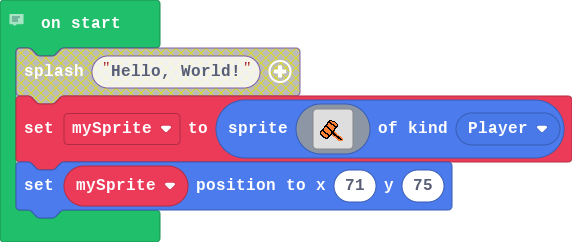
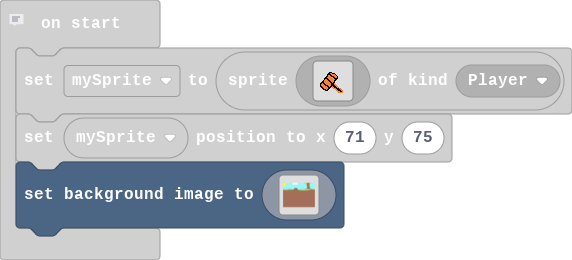
Update main.blocks, main.ts

diff --git a/main.ts b/main.ts
@@ -38,3 +38,125 @@ let mySprite = sprites.create(img`
     ................................
     `, SpriteKind.Player)
 mySprite.setPosition(71, 75)
+scene.setBackgroundImage(img`
[37 lines of base64/hex data omitted]
+    eeeeeeeeeeeeeeeeeeeeeeeeeeeeeeeeeeeeeeeeeeeeeeeeeeeeeeeeeeeeeeeeeeeeeeeeeeeeeeeeeeeeeeeeeeeeeeeeeeeeeeeeeeeeeeeeeeeeeeeeeeeeeeeeeeeeeeeeeeeeeeeeeeeeeeeeeeeeeeee
+    eeeeeeeeeeeeeeeeeeeeeeeeeeeeeeeeeeeeeeeeeeeeeeeeeeeeeeeeeeeeeeeeeeeeeeeeeeeeeeeeeeeeeeeeeeeeeeeeeeeeeeeeeeeeeeeeeeeeeeeeeeeeeeeeeeeeeeeeeeeeeeeeeeeeeeeeeeeeeeee
+    eeeeeeeeeeeeeeeeeeeeeeeeeeeeeeeeeeeeeeeeeeeeeeeeeeeeeeeeeeeeeeeeeeeeeeeeeeeeeeeeeeeeeeeeeeeeeeeeeeeeeeeeeeeeeeeeeeeeeeeeeeeeeeeeeeeeeeeeeeeeeeeeeeeeeeeeeeeeeeee
+    eeeeeeeeeeeeeeeeeeeeeeeeeeeeeeeeeeeeeeeeeeeeeeeeeeeeeeeeeeeeeeeeeeeeeeeeeeeeeeeeeeeeeeeeeeeeeeeeeeeeeeeeeeeeeeeeeeeeeeeeeeeeeeeeeeeeeeeeeeeeeeeeeeeeeeeeeeeeeeee
+    eeeeeeeeeeeeeeeeeeeeeeeeeeeeeeeeeeeeeeeeeeeeeeeeeeeeeeeeeeeeeeeeeeeeeeeeeeeeeeeeeeeeeeeeeeeeeeeeeeeeeeeeeeeeeeeeeeeeeeeeeeeeeeeeeeeeeeeeeeeeeeeeeeeeeeeeeeeeeeee
+    eeeeeeeeeeeeeeeeeeeeeeeeeeeeeeeeeeeeeeeeeeeeeeeeeeeeeeeeeeeeeeeeeeeeeeeeeeeeeeeeeeeeeeeeeeeeeeeeeeeeeeeeeeeeeeeeeeeeeeeeeeeeeeeeeeeeeeeeeeeeeeeeeeeeeeeeeeeeeeee
+    eeeeeeeeeeeeeeeeeeeeeeeeeeeeeeeeeeeeeeeeeeeeeeeeeeeeeeeeeeeeeeeeeeeeeeeeeeeeeeeeeeeeeeeeeeeeeeeeeeeeeeeeeeeeeeeeeeeeeeeeeeeeeeeeeeeeeeeeeeeeeeeeeeeeeeeeeeeeeeee
+    eeeeeeeeeeeeeeeeeeeeeeeeeeeeeeeeeeeeeeeeeeeeeeeeeeeeeeeeeeeeeeeeeeeeeeeeeeeeeeeeeeeeeeeeeeeeeeeeeeeeeeeeeeeeeeeeeeeeeeeeeeeeeeeeeeeeeeeeeeeeeeeeeeeeeeeeeeeeeeee
+    eeeeeeeeeeeeeeeeeeeeeeeeeeeeeeeeeeeeeeeeeeeeeeeeeeeeeeeeeeeeeeeeeeeeeeeeeeeeeeeeeeeeeeeeeeeeeeeeeeeeeeeeeeeeeeeeeeeeeeeeeeeeeeeeeeeeeeeeeeeeeeeeeeeeeeeeeeeeeeee
+    eeeeeeeeeeeeeeeeeeeeeeeeeeeeeeeeeeeeeeeeeeeeeeeeeeeeeeeeeeeeeeeeeeeeeeeeeeeeeeeeeeeeeeeeeeeeeeeeeeeeeeeeeeeeeeeeeeeeeeeeeeeeeeeeeeeeeeeeeeeeeeeeeeeeeeeeeeeeeeee
+    eeeeeeeeeeeeeeeeeeeeeeeeeeeeeeeeeeeeeeeeeeeeeeeeeeeeeeeeeeeeeeeeeeeeeeeeeeeeeeeeeeeeeeeeeeeeeeeeeeeeeeeeeeeeeeeeeeeeeeeeeeeeeeeeeeeeeeeeeeeeeeeeeeeeeeeeeeeeeeee
+    eeeeeeeeeeeeeeebeeeeeeeeeeeeeeeeeeeeeeeeeeeeeeeeeeeeeeeeeeeeeeeeeeeeeeeeeeeeeeeeeeeeeeeeeeeeeeeeeeeeeeeeeeeeeeeeeeeeeeeeeeeeeeeeeeeeeeeeeeeeeeeeeeeeeeeeeeeeeeee
+    eeeeeeeeeeeeeeeeeeeeeeeeeeeeeeeeeeeeeeeeeeeeeeeeeeeeeeeeeeeeeeeeeeeeeeeeeeeeeeeeeeeeeeeeeeeeeeeeeeeeebeeeeeeeeeeeeeeeeeeeeeeeeeeeeeeeeeeeeeeeeeeeeeeeeeeeeeeeeee
+    eeeeeeeeeeeeeeeeeeeeeeeeeeeeeeeeeeeeeeeeeeeeeeeeeeeeeeeeeeeeeeeeeeeeeeeeeeeeeeeeeeeeeeeeeeeeeeeeeeeeeeeeeeeeeeeeeeeeeeeeeeeeeeeeeeeeeeeeeeeeeeeeeeeeeeeeeeeeeeee
+    eeeeeeeeeeeeeeeeeeeeeeeeeeeeeeeeeeeeeeeeeeeeeeeeeeeeeeeeeeeeeeeeeeeeeeeeeeeeeeeeeeeeeeeeeeeeeeeeeeeeeeeeeeeeeeeeeeeeeeeeeeeeeeeeeeeeeeeeeeeeeeeeeeeeeeeeeeeeeeee
+    eeeeeeeeeeeeeeeeeeeeeeeeeeeeeeeeeeeeeeeeeeeeeeeeeeeeeeeeeeeeeeeeeeeeeeeeeeeeeeeeeeeeeeeeeeeeeeeeeeeeeeeeeeeeeeeeeeeeeeeeeeeeeeeeeeeeeeeeeeeeeeeeeeeeeeeeeeeeeeee
+    eeeeeeeeeeeeeeeeeeeeeeeeeeeeeeeeeeeeeeeeeeeeeeeeeeeeeeeeeeeeeeeeeeeeeeeeeeeeeeeeeeeeeeeeeeeeeeeeeeeeeeeeeeeeeeeeeeeeeeeeeeeeeeeeeeeeeeeeeeeeeeeeeeeeeeeeeeeeeeee
+    eeeeeeeeeeeeeeeeeeeeeeeeeeeeeeeeeeeeeeeeeeeeeeeeeeeeeeeeeeeeeeeeeeeeeeeeeeeeeeeeeeeeeeeeeeeeeeeeeeeeeeeeeeeeeeeeeeeeeeeeeeeeeeeeeeeeeeeeeeeeeeeeeeeeeeeeeeeeeeee
+    eeeeeeeeeeeeeeeeeeeeeeeeeeeeeeeeeeeeeeeeeeeeeeeeeeeeeeeeeeeeeeeeeeeeeeeeeeeeeeeeeeeeeeeeeeeeeeeeeeeeeeeeeeeeeeeeeeeeeeeeeeeeeeeeeeeeeeeeeeeeeeeeeeeeeeeeeeeeeeee
+    eeeeeeeeeeeeeeeeeeeeeeeeeeeeeeeeeeeeeeeeeeeeeeeeeeeeeeeeeeeeeeeeeeeeeeeeeeeeeeeeeeeeeeeeeeeeeeeeeeeeeeeeeeeeeeeeeeeeeeeeeeeeeeeeeeeeeeeeeeeeeeeeeeeeeeeeeeeeeeee
+    eeeeeeeeeeeeebeeeeeeeeeeeeeeeeeeeeeeeeeeeeeeeeeeeeeeeeeeeeeeeeeeeeeeeeeeeeeeeeeeeeeeeeeeeeeeeeeeeeeeeeeeeeeeeeeeeeeeeeeeeeeeeeeeeeeeeeeeeeeeeeeeeeeeeeeeeeeeeeee
+    eeeeeeeeeeeeeeeeeeeeeeeeeeeeeeeeeeeeeeeeeeeeeeeeeeeeeeeeeeeeeeeeeeeeeeeeeeeeeeeeeeeeeeeeeeeeeeeeeeeeeeeeeeeeeeeeeeeeeeeeeeeeeeeeeeeeeeeeeeeeeeeeeeeeeeeeeeeeeeee
+    eeeeeeeeeeeeeeeeeeeeeeeeeeeeeeeeeeeeeeeeeeeeeeeeeeeeeeeeeeeeeeeeeeeeeeeeeeeeeeeeeeeeeeeeeeeeeeeeeeeeeeeeeeeeeeeeeeeeeeeeeeeeeeeeeeeeeeeeeeeeeeeeeeeeeeeeeeeeeeee
+    eeeeeeeeeeeeeeeeeeeeeeeeeeeeeeeeeeeeeeeeeeeeeeeeeeeeeeeeeeeeeeeeeeeeeeeeeeeeeeeeeeeeeeeeeeeeeeeeeeeeeeeeeeeeeeeeeeeeeeeeeeeeeeeeeeeeeeeeeeeeeeeeeeeeeeeeeeeeeeee
+    eeeeeeeeeeeeeeeeeeeeeeeeeeeeeeeeeeeeeeeeeeeeeeeeeeeeeeeeeeeeeeeeeeeeeeeeeeeeeeeeeeeeeeeeeeeeeeeeeeeeeeeeeeeeeeeeeeeeeeeeeeeeeeeeeeeeeeeeeeeeeeeeeeeeeeeeeeeeeeee
+    eeeeeeeeeeeeeeeeeeeeeeeeeeeeeeeeeeeeeeeeeeeeeeeeeeeeeeeeeeeeebeeeeeeeeeeeeeeeeeeeeeeeeeeeeeeeeeeeeeeeeeeeeeeeeeeeeeeeeeeeeeeeeeeeeeeeeeeeeeeeeeeeeeeeeeeeeeeeeee
+    eeeeeeeeeeeeeeeeeeeeeeeeeeeeeeeeeeeeeeeeeeeeeeeeeeeeeeeeeeeeeeeeeeeeeeeeeeeeeeeeeeeeeeeeeeeeeeeeeeeeeeeeeeeeeeeeeeeeeeeeeeeeeeeeeeeebeeeeeeeeeeeeeeeeeeeeeeeeeee
+    eeeeeeeeeeeeeeeeeeeeeeeeeeeeeeeeeeeeeeeeeeeeeeeeeeeeeeeeeeeeeeeeeeeeeeeeeeeeeeeeeeeeeeeeeeeeeeeeeeeeeeeeeeeeeeeeeeeeeeeeeeeeeeeeeeeeeeeeeeeeeeeeeeeeeeeeeeeeeeee
+    eeeeeeeeeeeeeeeeeeeeeeeeeeeeeeeeeeeeeeeeeeeeeeeeeeeeeeeeeeeeeeeeeeeeeeeeeeeeeeeeeeeeeeeeeeeeebeeeeeeeeeeeeeeeeeeeeeeeeeeeeeeeeeeeeeeeeeeeeeeeeeeeeeeeeeeeeeeeeee
+    eeeeeeeeeeeeeeeeeeeeeeeeeeeeeeeeeeeeeeeeeeeeeeeeeeeeeeeeeeeeeeeeeeeeeeeeeeeeeeeeeeeeeeeeeeeeeeeeeeeeeeeeeeeeeeeeeeeeeeeeeeeeeeeeeeeeeeeeeeeeeeeeeeeeeeeeeeeeeeee
+    eeeeeeeeeeeeeeeeeeeeeeeeeeeeeeeeeeeeeeeeeeeeeeeeeeeeeeeeeeeeeeeeeeeeeeeeeeeeeeeeeeeeeeeeeeeeeeeeeeeeeeeeeeeeeeeeeeeeeeeeeeeeeeeeeeeeeeeeeeeeeeeeeeeeeeeeeeeeeeee
+    eeeeeeeeeeeeeeeeeeeeeeeeeeeeeeeeeeeeeeeeeeeeeeeeeeeeeeeeeeeeeeeeeeeeeeeeeeeeeeeeeeeeeeeeeeeeeeeeeeeeeeeeeeeeeeeeeeeeeeeeeeeeeeeeeeeeeeeeeeeeeeeeeeeeeeeeeeeeeeee
+    eeeeeeeeeeeeeeeeeeeeeeeeeeeeeeeeeeeeeeeeeeeeeeeeeeeeeeeeeeeeeeeeeeeeeeeeeeeeeeeeeeeeeeeeeeeeeeeeeeeeeeeeeeeeeeeeeeeeeeeeeeeeeeeeeeeeeeeeeeeeeeeeeeeeeeeeeeeeeeee
+    eeeeeeeeeeeeeeeeeeeeeeeeeeeeeeeeeeeeeeeeeeeeeeeeeeeeeeeeeeeeeeeeeeeeeeeeeeeeeeeeeeeeeeeeeeeeeeeeeeeeeeeeeeeeeeeeeeeeeeeeeeeeeeeeeeeeeeeeeeeeeeeeeeeeeeeeeeeeeeee
+    eeeeeeeeeeeeeeeeeeeeeeeeeeeeeeeeeeeeeeeeeeeeeeeeeeeeeeeeeeeeeeeeeeeeeeeeeeeeeeeeeeeeeeeeeeeeeeeeeeeeeeeeeeeeeeeeeeeeeeeeeeeeeeeeeeeeeeeeeeeeeeeeeeeeeeeeeeeeeeee
+    eeeeeeeeeeeeeeeeeeeeeeeeeeeeeeeeeeeeeeeeeeeeeeeeeeeeeeeeeeeeeeeeeeeeeeeeeeeeeeeeeeeeeeeeeeeeeeeeeeeeeeeeeeeeeeeeeeeeeeeeeeeeeeeeeeeeeeeeeeeeeeeeeeeeeeeeeeeeeeee
+    eeeeeeeeeeeeeeeeeeeeeeeeeeeeeeeeeeeeeeeeeeeeeeeeeeeeeeeeeeeeeeeeeeeeeeeeeeeeeeeeeeeeeeeeeeeeeeeeeeeeeeeeeeeeeeeeeeeeeeeeeeeeeeeeeeeeeeeeeeeeeeeeeeeeeeeeeeeeeeee
+    eeeeeeeeeeeeeeeeeeeeeeeeeeeeeeeeeeeeeeeeeeeeeeeeeeeeeeeeeeeeeeeeeeeeeeeeeeeeeeeeeeeeeeeeeeeeeeeeeeeeeeeeeeeeeeeeeeeeeeeeeeeeeeeeeeeeeeeeeeeeeeeeeeeeeeeeeeeeeeee
+    eeeeeeeeeeeeeeeeeeeeeeeeeeeeeeeeeeeeeeeeeeeeeeeeeeeeeeeeeeeeeeeeeeeeeeeeeeeeeeeeeeeeeeeeeeeeeeeeeeeeeeeeeeeeeeeeeeeebeeeeeeeeeeeeeeeeeeeeeeeeeeeeeeeeeeeeeeeeeee
+    eeeeeeeeeeeeeeeeeeeeeeeeeeeeeeeeeeeeeeeeeeeeeeeeeeeeeeeeeeeeeeeeeeeeeeeeeeeeeeeeeeeeeeeeeeeeeeeeeeeeeeeeeeeeeeeeeeeebeeeeeeeeeeeeeeeeeeeeeeeeeeeeeeeeeeeeeeeeeee
+    eeeeeeeeeeeeeeeeeeeeeeeebeeeeeeeeeeeeeeeeeeeeeeeeeeeeeeeeeeeeeeeeeeeeeeeeeeeeeeeeeeeeeeeeeeeeeeeeeeeeeeeeeeeeeeeeeeeeeeeeeeeeeeeeeeeeeeeeeeeeeeeeeeeeeeeeeeeeeee
+    eeeeeeeeeeeeeeeeeeeeeeeeeeeeeeeeeeeeeeeeeeeeeeeeeeeeeeeeeeeeeeeeeeeeeeeeeeeeeeeeeeeeeeeeeeeeeeeeeeeeeeeeeeeeeeeeeeeeeeeeeeeeeeeeeeeeeeeeeeeeeeeeeeeeeeeeeeeeeeee
+    eeeeeeeeeeeeeeeeeeeeeeeeeeeeeeeeeeeeeeeeeeeeeeeeeeeeeeeeeeeeeeeeeeeeeeeeeeeeeeeeeeeeeeeeeeeeeeeeeeeeeeeeeeeeeeeeeeeeeeeeeeeeeeeeeeeeeeeeeeeeeeeeeeeeeeeeeeeeeeee
+    eeeeeeeeeeebeeeeeeeeeeeeeeeeeeeeeeeeeeeeeeeeeeeeeeeeeeeeeeeeeeeeeeeeeeeeeeeeeeeeeeeeeeeeeeeeeeeeeeeeeeeeeeeeeeeeeeeeeeeeeeeeeeeeeeeeeeeeeeeeeeeeeeeeeeeeeeeeeeee
+    eeeeeeeeeeeeeeeeeeeeeeeeeeeeeeeeeeeeeeeeeeeeeeeeeeeeeeeeeeeeeeeeeeeeeeeeeeeeeeeeeeeeeeeeeeeeeeeeeeeeeeeeeeeeeeeeeeeeeeeeeeeeeeeeeeeeeeeeeeeeeeeeeeeeeeeeeeeeeeee
+    eeeeeeeeeeeeeeeeeeeeeeeeeeeeeeeeeeeeeeeeeeeeeeeeeeeeeeeeeeeeeeebeeeeeeeeeeeeeeeeeeeeeeeeeeeeeeeeeeeeeeeeeeeeeeeeeeeeeeeeeeeeeeeeeeeeeeeeeeeeeeeeeeeeeeeeeeeeeeee
+    eeeeeeeeeeeeeeeeeeeeeeeeeeeeeeeeeeeeeeeeeeeeeeeeeeeeeeeeeeeeeeeeeeeeeeeeeeeeeeeeeeeeeeeeeeeeeeeeeeeeeeeeeeeeeeeeeeeeeeeeeeeeeeeeeeeeeeeeeeeeeeeeeeeeeeeeeeeeeeee
+    eeeeeeeeeeeeeeeeeeeeeeeeeeeeeeeeeeeeeeeeeeeeeeeeeeeeeeeeeeeeeeeeeeeeeeeeeeeeeeeeeeeeeeeeeeeeeeeeeeeeeeeeeeeeeeeeeeeeeeeeeeeeeeeeeeeeeeeeeeeeeeeeeeeeeeeeeeeeeeee
+    eeeeeeeeeeeeeeeeeeeeeeeeeeeeeeeeeeeeeeeeeeeeeeeeeeeeeeeeeeeeeeeeeeeeeeeeeeeeeeeeeeeeeeeeeeeeeeeeeeeeeeeeeeeeeeeeeeeeeeeeeeeeeeeeeeeeeeeeeeeeeeeeeeeeeeeeeeeeeeee
+    eeeeeeeeeeeeeeeeeeeeeeeeeeeeeeeeeeeeeeeeeeeeeeeeeeeeeeeeeeeeeeeeeeeeeeeeeeeeeeeeeeeeeeeeeeeeeeeeeeeeeeeeeeeeeeeeeeeeeeeeeeeeeeeeeeeeeeeeeeeeeeeeeeeeeeeeeeeeeeee
+    eeeeeeeeeeeeeeeeeeeeeeeeeeeeeeeeeeeeeeeeeeeeeeeeeeeeeeeeeeeeeeeeeeeeeeeeeeeeeeeeeeeeeeeeeeeeeeeeeeeeeeeeeeeeeeeeeeeeeeeeeeeeeeeeeeeeeeeeeeeeeeeeeeeeeeeeeeeeeeee
+    eeeeeeeeeeeeeeeeeeeeeeeeeeeeeeeeeeeeeeeeeeeeeeeeeeeeeeeeeeeeeeeeeeeeeeeeeeeeeeeeeeeeeeeeeeeeeeeeeeeeeeeeeeeeeeeeeeeeeeeeeeeeeeeeeeeeeeeeeeeeeeeeeeeeeeeeeeeeeeee
+    eeeeeeeeeeeeeeeeeeeeeeeeeeeeeeeeeeeeeeeeeeeeeeeeeeeeeeeeeeeeeeeeeeeeeeeeeeeeeeeeeeeeeeeeeeeeeeeeeeeeeeeeeeeeebeeeeeeeeeeeeeeeeeeeeeeeeeeeeeeeeeeeeeeeeeeeeeeeeee
+    eeeeeeeeeeeeeeeeeeeeeeeeeeeeeeeeeeeeeeeeeeeeeeeeeeeeeeeeeeeeeeeeeeeeeeeeeeeeeeeeeeeeeeeeeeeeeeeeeeeeeeeeeeeeeeeeeeeeeeeeeeeeeeeeeeeeeeeeeeeeeeeeeeeeeeeeeeeeeeee
+    eeeeeeeeeeeeeeeeeeeeeeeeeeeeeeeeeeeeeeeeeeeeeeeeeeeeeeeeeeeeeeeeeeeeeeeeebeeeeeeeeeeeeeeeeeeeeeeeeeeeeeeeeeeeeeeeeeeeeeeeeeeeeeeeeeeeeeeeeeeeeeeeeeeeeeeeeeeeeee
+    eeeeeeeeeeeeeeeeeeeeeeeeeeeeeeeeeeeeeeeeeeeeeeeeeeeeeeeeeeeeeeeeeeeeeeeeeeeeeeeeeeeeeeeeeeeeeeeeeeeeeeeeeeeeeeeeeeeeeeeeeeeeeeeeeeeeeeeeeeeeeeeeeeeeeeeeeeeeeeee
+    eeeeeeeeeeeeeeeeeeeeeeeeeeeeeeeeeeeeeeeeeeeeeeeeeeeeeeeeeeeeeeeeeeeeeeeeeeeeeeeeeeeeeeeeeeeeeeeeeeeeeeeeeeeeeeeeeeeeeeeeeeeeeeeeeeeeeeeeeeeeeeeeeeeeeeeeeeeeeeee
+    eeeeeeeeeeeeeeeeeeeeeeeeeeeeeeeeeeeeeeeeeeeebeeeeeeeeeeeeeeeeeeeeeeeeeeeeeeeeeeeeeeeeeeeeeeeeeeeeeeeeeeeeeeeeeeeeeeeeeeeeeeeeeeeeeeeeeeeeeeeeeeeeeeeeeeeeeeeeeee
+    eeeeeeeeeeeeeeeeeeeeeeeeeeeeeeeeeeeeeeeeeeeeeeeeeeeeeeeeeeeeeeeeeeeeeeeeeeeeeeeeeeeeeeeeeeeeeeeeeeeeeeeeeeeeeeeeeeeeeeeeeeeeeeeeeeeeeeeeeeeeeeeeeeeeeeeeeeeeeeee
+    eeeeeeeeeeeeeeeeeeeeeeeeeeeeeeeeeeeeeeeeeeeeeeeeeeeeeeeeeeeeeeeeeeeeeeeeeeeeeeeeeeeeeeeeeeeeeeeeeeeeeeeeeeeeeeeeeeeeeeeeeeeeeeeeeeeeeeeeeeeeeeeeeeeeeeeeeeeeeeee
+    eeeeeeeeeeeeeeeeeeeeeeeeeeeeeeeeeeeeeeeeeeeeeeeeeeeeeeeeeeeeeeeeeeeeeeeeeeeeeeeeeeeeeeeeeeeeeeeeeeeeeeeeeeeeeeeeeeeeeeeeeeeeeeeeeeeeeeeeeeeeeeeeeeeeeeeeeeeeeeee
+    eeeeeeeeeeeeeeeeeeeeeeeeeeeeeeeeeeeeeeeeeeeeeeeeeeeeeeeeeeeeeeeeeeeeeeeeeeeeeeeeeeeeeeeeeeeeeeeeeeeeeeeeeeeeeeeeeeeeeeeeeeeeeeeeeeeeebeeeeeeeeeeeeeeeeeeeeeeeeee
+    eeeeeeeeebeeeeeeeeeeeeeeeeeeeeeeeeeeeeeeeeeeeeeeeeeeeeeeeeeeeeeeeeeeeeeeeeeeeeeeeeeeeeeeeeeeeeeeeeeeeeeeeeeeeeeeeeeeeeeeeeeeeeeeeeeeeeeeeeeeeeeeeeeeeeeeeeeeeeee
+    eeeeeeeeeeeeeeeeeeeeeeeeeeeeeeeeeeeeeeeeeeeeeeeeeeeeeeeeeeeeeeeeeeeeeeeeeeeeeeeeeeeeeeeeeeeeeeeeeeeeeeeeeeeeeeeeeeeeeeeeeeeeeeeeeeeeeeeeeeeeeeeeeeeeeeeeeeeeeeee
+    eeeeeeeeeeeeeeeeeeeeeeeeeeeeeeeeeeeeeeeeeeeeeeeeeeeeeeeeeeeeeeeeeeeeeeeeeeeeeeeeeeeeeeeeeeeeeeeeeeeeeeeeeeeeeeeeeeeeeeeeeeeeeeeeeeeeeeeeeeeeeeeeeeeeeeeeeeeeeeee
+    eeeeeeeeeeeeeeeeeeeeeeeeeeeeeeeeeeeeeeeeeeeeeeeeeeeeeeeeeeeeeeeeeeeeeeeeeeeeeeeeeeeeeeeeeeeeeeeeeeeeeeeeeeeeeeeeeeeeeeeeeeeeeeeeeeeeeeeeeeeeeeeeeeeeeeeeeeeeeeee
+    eeeeeeeeeeeeeeeeeeeeeeeeeeeeebeeeeeeeeeeeeeeeeeeeeeeeeeeeeeeeeeeeeeeeeeeeeeeeeeeeeeeeeeeeeeeeeeeeeeeeeeeeeeeeeeeeeeeeeeeeeeeeeeeeeeeeeeeeeeeeeeeeeeeeeeeeeeeeeee
+    eeeeeeeeeeeeeeeeeeeeeeeeeeeeeeeeeeeeeeeeeeeeeeeeeeeeeeeeeeeeeeeeeeeeeeeeeeeeeeeeeeeeeeeeeeeeeeeeeeeeeeeeeeeeeeeeeeeeeeeeeeeeeeeeeeeeeeeeeeeeeeeeeeeeeeeeeeeeeeee
+    eeeeeeeeeeeeeeeeeeeeeeeeeeeeeeeeeeeeeeeeeeeeeeeeeeeeeeeeeeeeeeeeeeeeeeeeeeeeeeeeeeeeeeeeeeeeeeeeeeeeeeeeeeeeeeeeeeeeeeeeeeeeeeeeeeeeeeeeeeeeeeeeeeeeeeeeeeeeeeee
+    eeeeeeeeeeeeeeeeeeeeeeeeeeeeeeeeeeeeeeeeeeeeeeeeeeeeeeeeeeeeeeeeeeeeeeeeeeeeeeeeeeeeeeeeeeeeeeeeeeeeeeeeeeeeeeeeeeeeeeeeeeeeeeeeeeeeeeeeeeeeeeeeeeeeeeeeeeeeeeee
+    eeeeeeeeeeeeeeeeeeeeeeeeeeeeeeeeeeeeeeeeeeeeeeeeeeeeeeeeeeeeeeeeeeeeeeeeeeeeeeeeeeeeeeeeeeeeeeeeeeeeeeeeeeeeeeeeeeeeeeeeeeeeeeeeeeeeeeeeeeeeeeeeeeeeeeeeeeeeeeee
+    eeeeeeeeeeeeeeeeeeeeeeeeeeeeeeeeeeeeeeeeeeeeeeeeeeeeeeeeeeeeeeeeeeeeeeeeeeeeeeeeeeeeeeeeeeeeeeeeeeeeeeeeeeeeeeeeeeeeeeeeeeeeeeeeeeeeeeeeeeeeeeeeeeeeeeeeeeeeeeee
+    eeeeeeeeeeeeeeeeeeeeeeeeeeeeeeeeeeeeeeeeeeeeeeeeeeeeeeeeeeeeeeeeeeeeeeeeeeeeeeeeeeeeeeeeeeeeeeeeeeeeeeeeeeeeeeeeeeeeeeeeeeeeeeeeeeeeeeeeeeeeeeeeeeeeeeeeeeeeeeee
+    eeeeeeeeeeeeeeeeeeeeeeeeeeeeeeeeeeeeeeeeeeeeeeeeeeeeeeeeeeeeeeeeeeeeeeeeeeeeeeeeeeeeeeeeeeeeeeeeeeeeeeeeeeeeeeeeeeeeeeeeeeeeeeeeeeeeeeeeeeeeeeeeeeeeeeeeeeeeeeee
+    eeeeeeeeeeeeeeeeeeeeeeeeeeeeeeeeeeeeeeeeeeeeeeeeeeeeeeeeeeeeeeeeeeeeeeeeeeeeeeeeeeeeeeeeeeeeeeeeeeeeeeeeeeeeeeeeeeeeeeeeeeeeeeeeeeeeeeeeeeeeeeeeeeeeeeeeeeeeeeee
+    eeeeeeeeeeeeeeeeeeeeeeeeeeeeeeeeeeeeeeeeeeeeeeeeeeeeeeeeeeeeeeeeeeeeeeeeeeeeeeeeeeeeeeeeeeeeeeeeeeeeeeeeeeeeeeeeeeeeeeeeeeeeeeeeeeeeeeeeeeeeeeeeeeeeeeeeeeeeeeee
+    eeeeeeeeeeeeeeeeeeeeeeeeeeeeeeeeeeeeeeeeeeeeeeeeeeeeeeeeeeeeeeeeeeeeeeeeeeeeeeeeeeeeeeeeeeeeeeeeeeeeeeeeeeeeeeeeeeeeeeeeeeeeeeeeeeeeeeeeeeeeeeeeeeeeeeeeeeeeeeee
+    eeeeeeeeeeeeeeeeeeeeeeeeeeeeeeeeeeeeeeeeeeeeeeeeeeeeeeeeeeeeeeeeeeeeeeeeeeeeeeeeeeeeeeeeeeeeeeeeeeeeeeeeeeeeeeeeeeeeeeeeeeeeeeeeeeeeeeeeeeeeeeeeeeeeeeeeeeeeeeee
+    eeeeeeeeeeeeeeeeeeeeeeeeeeeeeeeeeeeeeeeeeeeeeeeeeeeeeeeeeeeeeeeeeeeeeeeeeeeeeeeeeeeeeeeeeeeeeeeeeeeeeeeeeeeeeeeeeeeeeeeeeeeeeeeeeeeeeeeeeeeeeeeeeeeeeeeeeeeeeeee
+    eeeeeeeeeeeeeeeeeeeeeeeeeeeeeeeeeeeeeeeeeeeeeeeeeeeeeeeeeeeeeeeeeeeeeeeeeeeeeeeeeeeeeeeeeeeeeeeeeeeeeeeeeeeeeeeeeeeeeeeeeeeeeeeeeeeeeeeeeeeeeeeeeeeeeeeeeeeeeeee
+    eeeeeeeeeeeeeeeeeeeeeeeeeeeeeeeeeeeeeeeeeeeeeeeeeeeeeeeeeeeeeeeeeeeeeeeeeeeeeeeeeeeeeeeeeeeeeeeeeeeeeeeeeeeeeeeeeeeeeeeeeeeeeeeeeeeeeeeeeeeeeeeeeeeeeeeeeeeeeeee
+    eeeeeeeeeeeeeeeeeeeeeeeeeeeeeeeeeeeeeeeeeeeeeeeeeeeeeeeeeeeeeeeeeeeeeeeeeeeeeebeeeeeeeeeeeeeeeeeeeeeeeeeeeeeeeeeeeeeeeeeeeeeeeeeeeeeeeeeeeeeeeeeeeeeeeeeeeeeeeee
+    eeeeeeeeeeeeeebeeeeeeeeeeeeeeeeeeeeeeeeeeeeeeeeeeeeeeeeeeeeeeeeeeeeeeeeeeeeeeeeeeeeeeeeeeeeeeeeeeeeeeeeeeeeeeeeeeeeeeeeeeeeeeeeeeeeeeeeeeeeeeeeeeeeeeeeeeeeeeeee
+    `)
